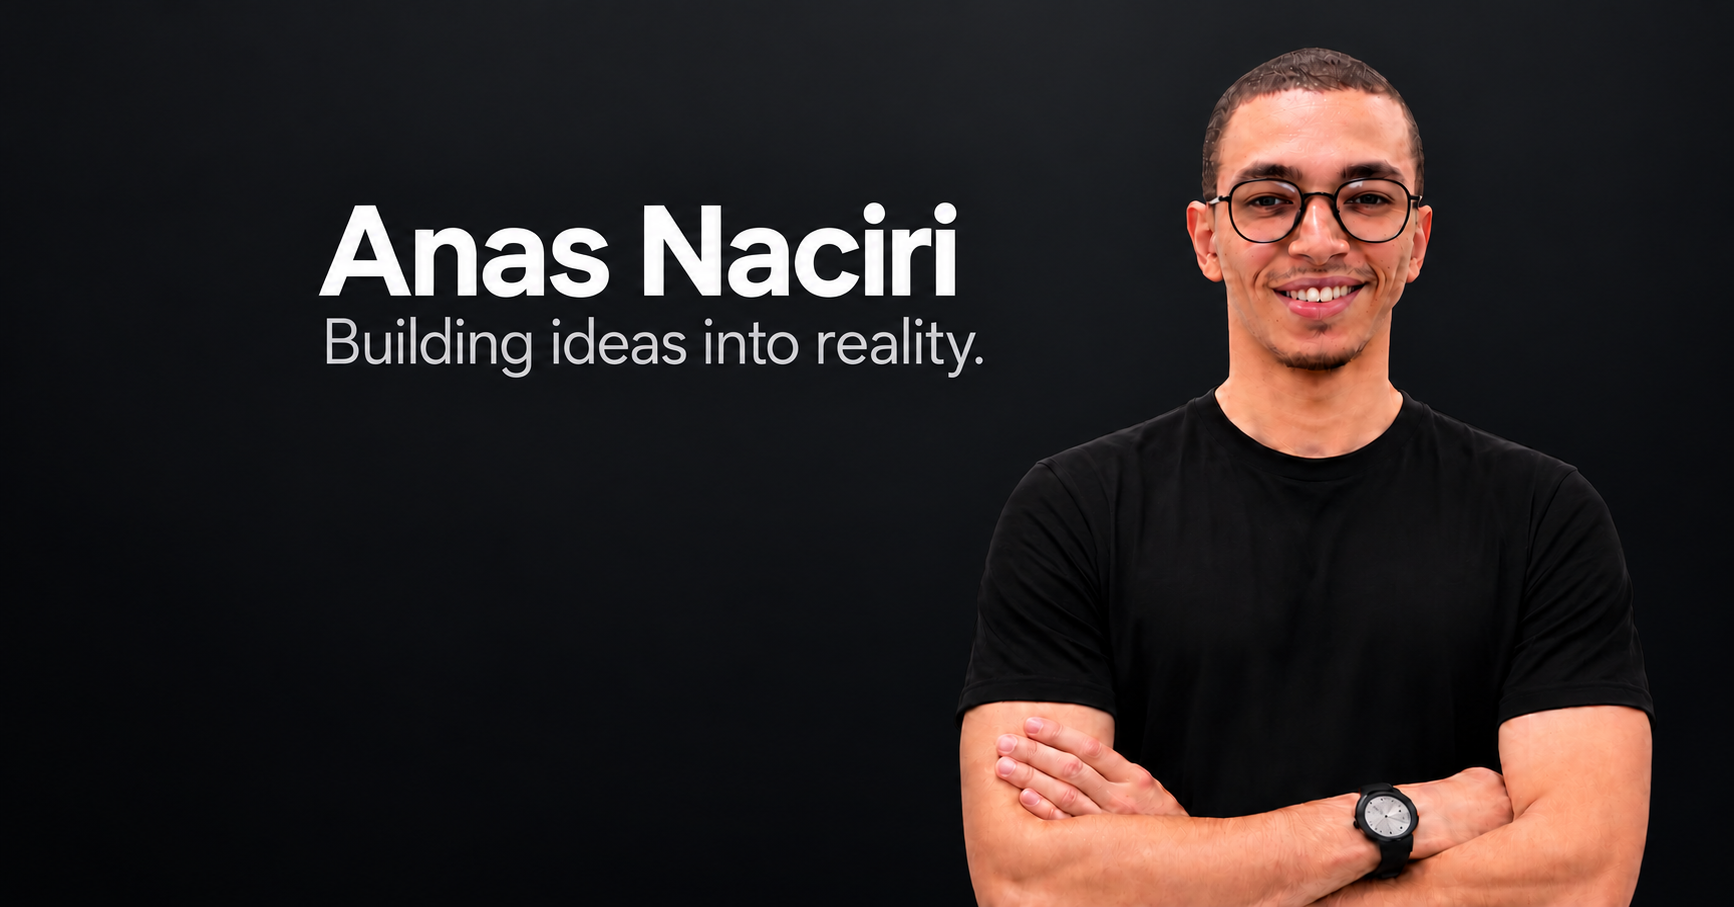
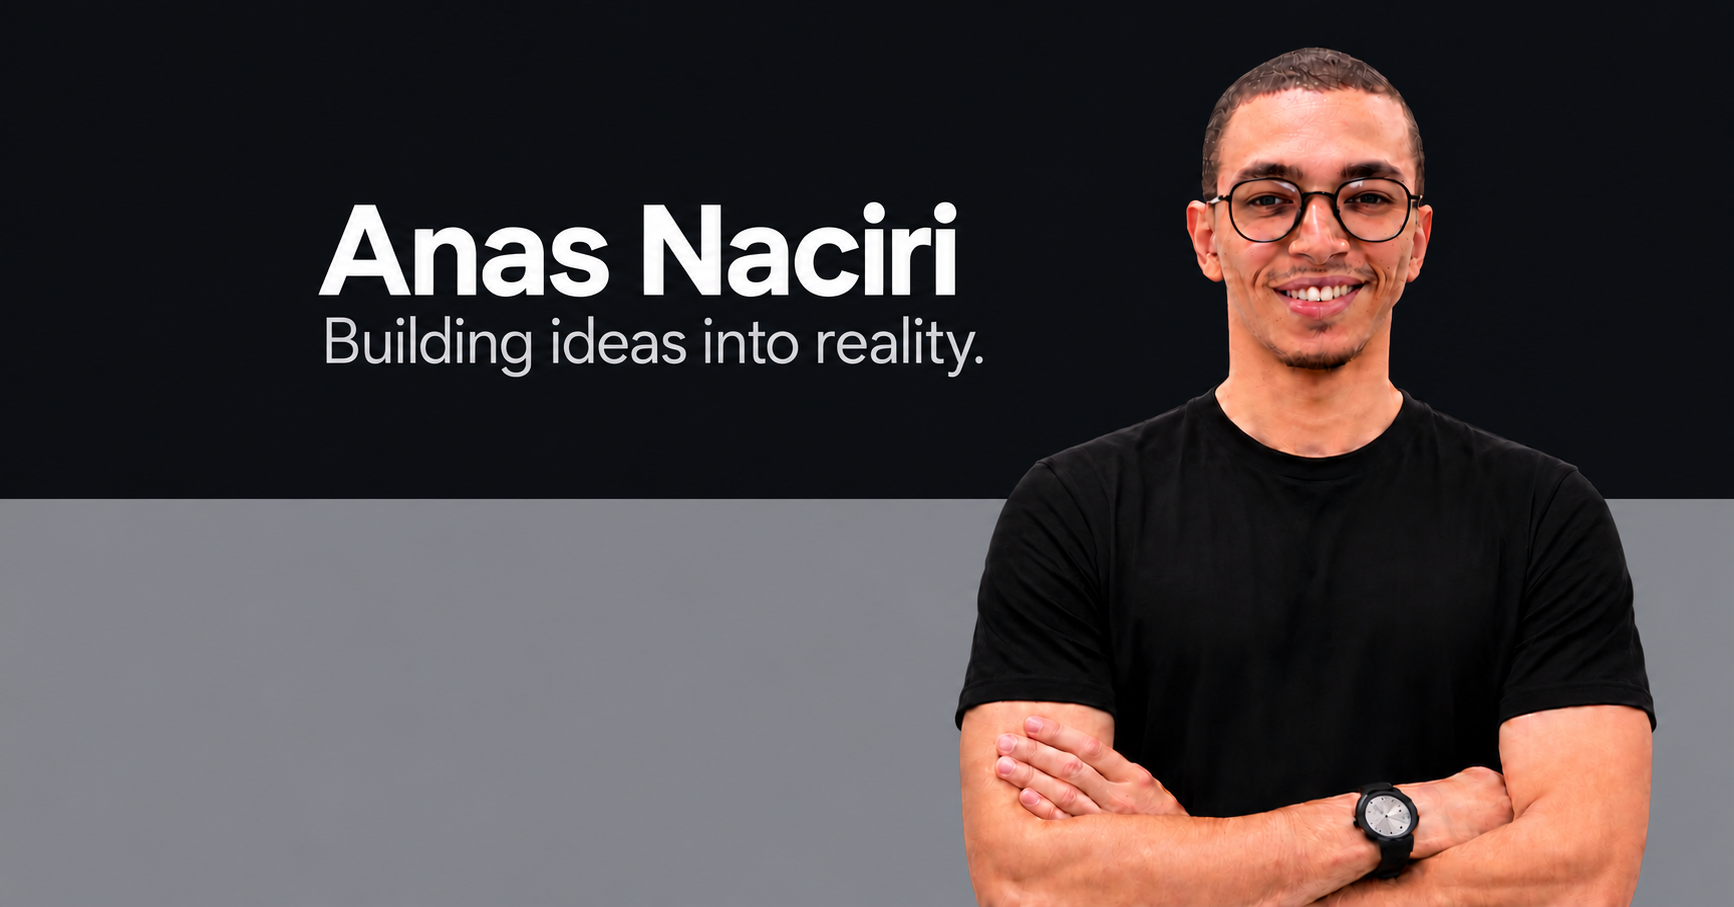
Add sharp black and grey split behind portrait

diff --git a/README.md b/README.md
@@ -1,2 +1,2 @@
 <!-- When the portfolio is live, wrap this image in a link to its URL. -->
-<img src="./banner.png?v=grey" alt="Anas Naciri — Building ideas into reality." width="100%" />
+<img src="./banner.png?v=splitgrey" alt="Anas Naciri — Building ideas into reality." width="100%" />
